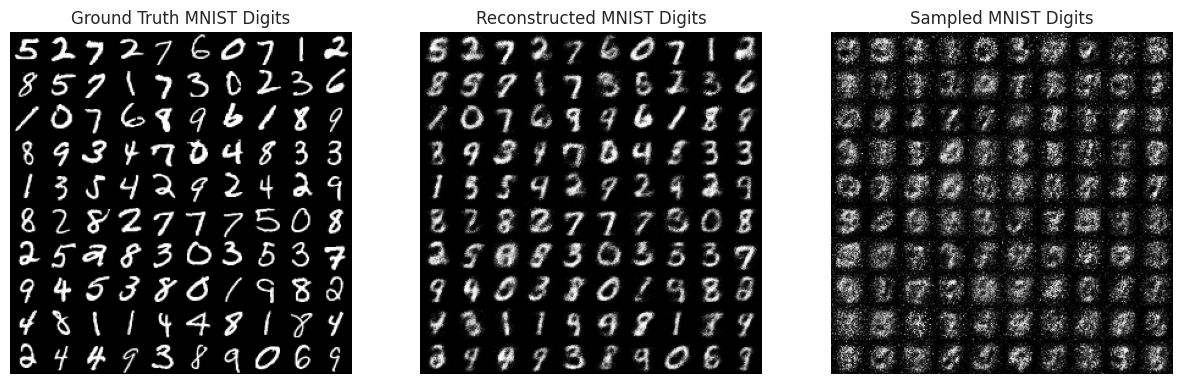
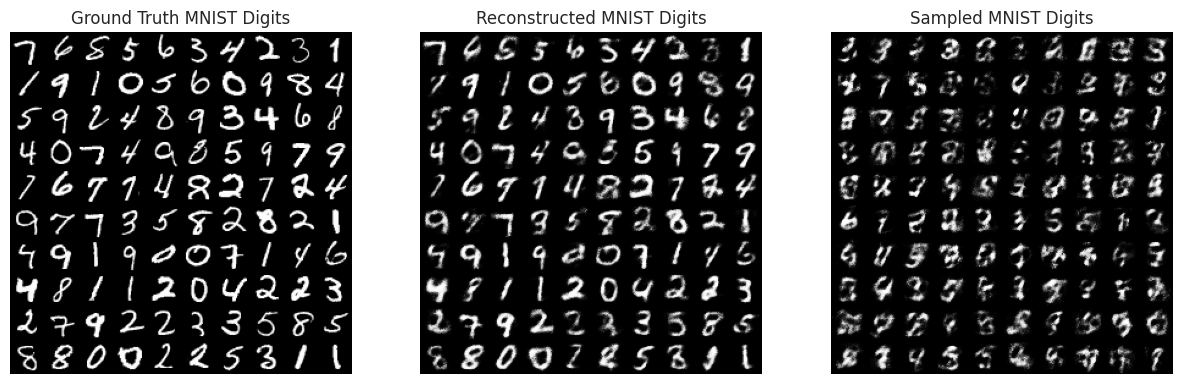
test changed

diff --git a/main.py b/main.py
@@ -11,7 +11,7 @@ sns.set_style("darkgrid")
 gif_pics = True
 batch_size = 250
 lr = 1e-4
-num_epochs = 1
+num_epochs = 5
 train_log = []
 test_log = {}
 k = 0
